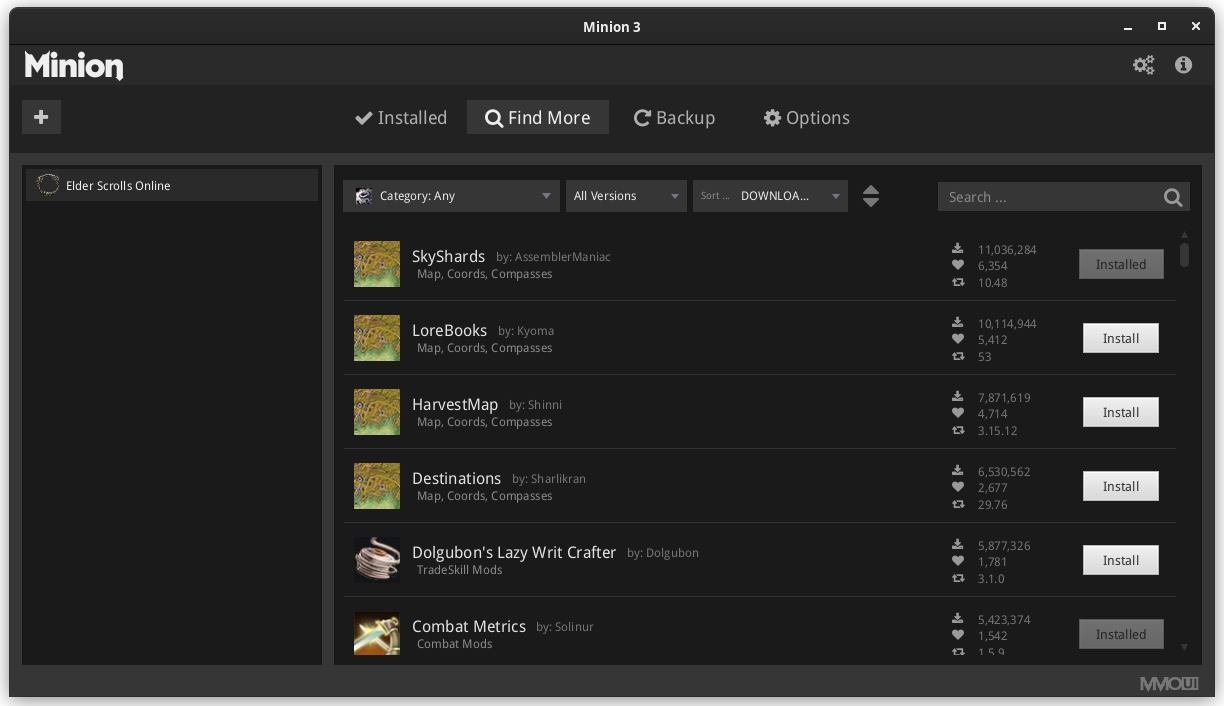
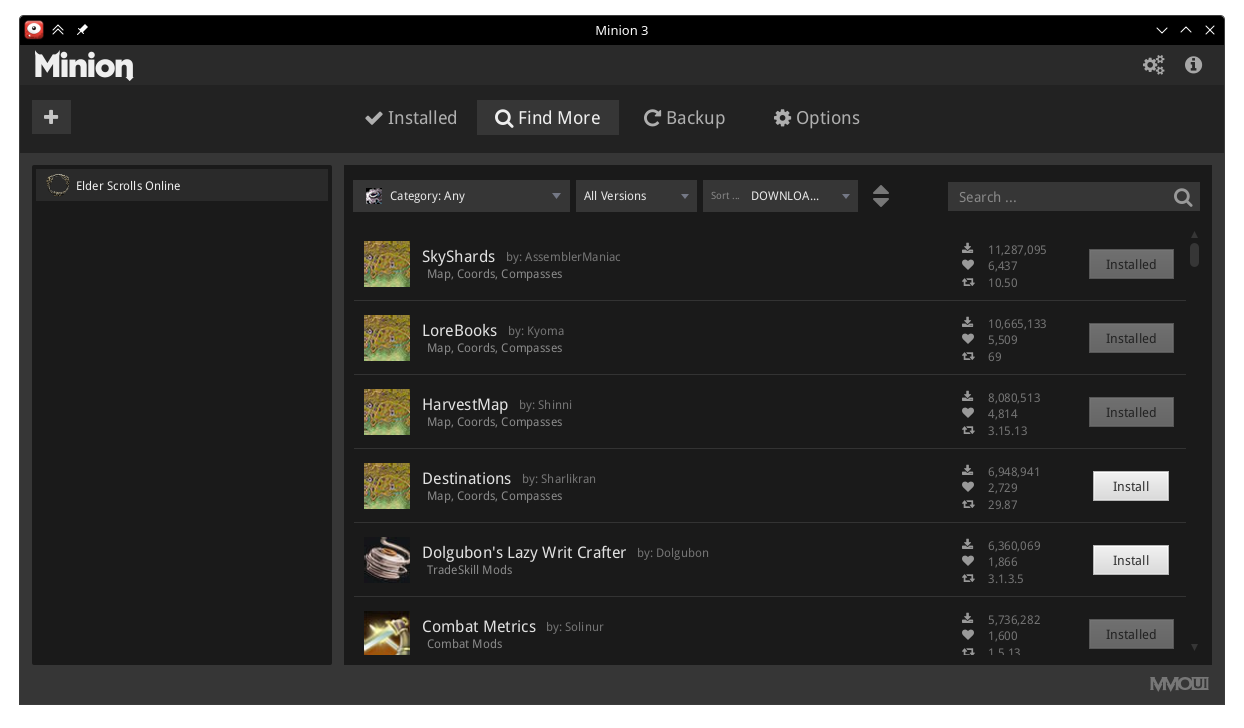
Update screenshots
Update screenshots for the KDE DE. Also added screenshots for Backup and the Archived Backup.

diff --git a/README.md b/README.md
@@ -43,11 +43,17 @@ Running:
 ## Screenshots
 
 ### Showing installed addons
-![installed](https://raw.githubusercontent.com/zastrixarundell/flathub/gg.minion.Minion/screenshots/installed.png)
+![installed](./screenshots/installed.png)
 
 ### Showing available addons for download
-![find](https://raw.githubusercontent.com/zastrixarundell/flathub/gg.minion.Minion/screenshots/find.png)
+![find](./screenshots/find.png)
 
 
 ### Searching for addons
-![search](https://raw.githubusercontent.com/zastrixarundell/flathub/gg.minion.Minion/screenshots/search.png)
+![search](./screenshots/search.png)
+
+### Backup
+![backup](./screenshots/backup.png)
+
+### Archived Backup
+![archived backup](./screenshots/archived-backup.png)
